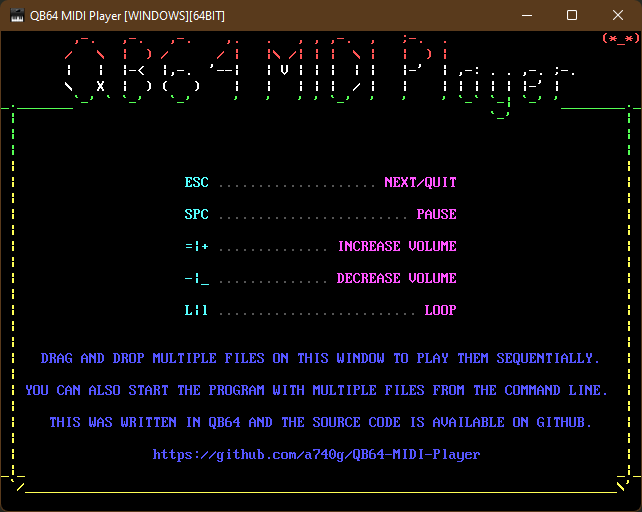
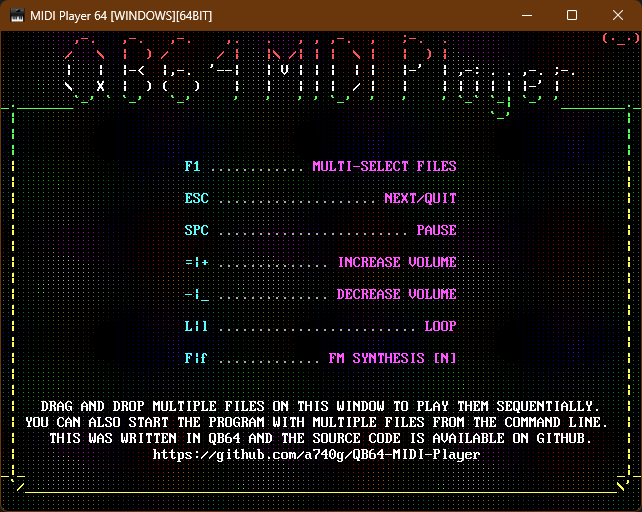
Update screenshots and README.md

diff --git a/README.md b/README.md
@@ -1,6 +1,6 @@
 # MIDI PLAYER 64
 
-This is a [QB64-PE](https://github.com/QB64-Phoenix-Edition/QB64pe) compatible MIDI player library based on [TinySoundFont](https://github.com/schellingb/TinySoundFont) (a software synthesizer using SoundFont2) and [TinyMidiLoader](https://github.com/schellingb/TinySoundFont) (a minimalistic SMF parser) C single-header libraries.
+This is a [QB64-PE](https://github.com/QB64-Phoenix-Edition/QB64pe) MIDI player and library based on [TinySoundFont](https://github.com/schellingb/TinySoundFont) (a software synthesizer using SoundFont2) and [TinyMidiLoader](https://github.com/schellingb/TinySoundFont) (a minimalistic SMF parser) C single-header libraries.
 
 ![Screenshot](screenshots/Screenshot1.png)
 ![Screenshot](screenshots/Screenshot2.png)
@@ -11,6 +11,7 @@ This is a [QB64-PE](https://github.com/QB64-Phoenix-Edition/QB64pe) compatible M
 - Cross-platform (works on Windows, Linux & macOS)
 - Everything is statically linked (no shared library dependency)
 - Demo player that shows how to use the library
+- Experimental FM Synthesis
 
 ## API
 
@@ -33,7 +34,7 @@ Function MIDI_GetVolume!
 Function MIDI_GetTotalTime#
 Function MIDI_GetCurrentTime#
 Function MIDI_GetActiveVoices~&
-Sub MIDI_UpdatePlayer
+Sub MIDI_UpdatePlayer (bufferTime As Single)
 ```
 
 ## NOTES
@@ -41,7 +42,7 @@ Sub MIDI_UpdatePlayer
 - This requires the latest version of [QB64-PE](https://github.com/QB64-Phoenix-Edition/QB64pe/releases)
 - Mixing this with QB64-PE's [$MIDISOUNDFONT](https://qb64phoenix.com/qb64wiki/index.php/$MIDISOUNDFONT) will not work
 - When you clone a repository that contains submodules, the submodules are not automatically cloned by default
-- You will need to use the `git submodule init` command followed by the `git submodule update` command to clone the submodules
+- You will need to use the `git submodule update --init --recursive` to initialize, fetch and checkout git submodules
 
 ## ASSETS
 
